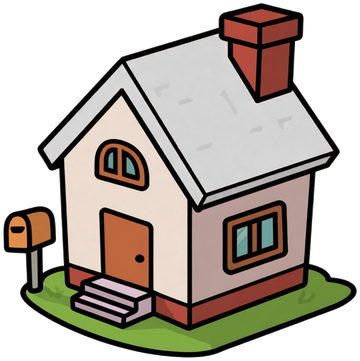
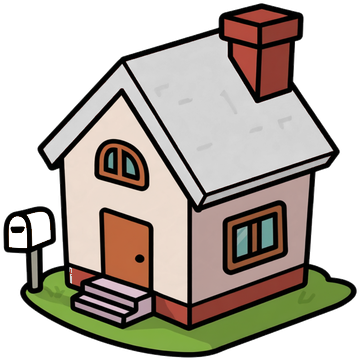
광장: 우편함도 지붕 색 따라 · 박스 크기를 화면 크기에 맞춰 (낮은 화면에서 위로 높이 쌓여 동상 · 게시판을 덮던 것) · 휴대폰 가로 화면은 원을 아래로 (제목 줄과 안 겹치게)
Claude-Session: https://claude.ai/code/session_01FJjmZS4UAcAfVvvFLL5GtA

Changed region(s): [[0.0, 0.5789, 0.1528, 0.7008], [0.1833, 0.7313, 0.2139, 0.7922]]

diff --git a/src/pages/Plaza.tsx b/src/pages/Plaza.tsx
@@ -112,7 +112,7 @@ const RY0 = 50;
 const RX = 41;
 const RY = 37;
 /** 세로로 긴 화면(휴대폰): 원은 위쪽에 (물류센터는 원 밖 맨 아래) */
-const geo = (tall: boolean) => (tall ? { x0: RX0, y0: 45, rx: 35, ry: 32 } : { x0: RX0, y0: RY0, rx: RX, ry: RY });
+const geo = (tall: boolean, short = false) => (tall ? { x0: RX0, y0: 45, rx: 35, ry: 32 } : short ? { x0: RX0, y0: 55, rx: RX, ry: 32 } : { x0: RX0, y0: RY0, rx: RX, ry: RY });
 
 /** 고정된 난수 (새로 그려도 덤불 자리가 그대로) */
 function rng(seed: number) {
@@ -124,8 +124,8 @@ function rng(seed: number) {
 }
 
 /** 바닥: 잔디 · 가운데 흙 광장 · 물류센터 마당 · 덤불 · 꽃 · 돌 조금 (길은 아직 안 그림) */
-function Ground({ w, h, tall }: { w: number; h: number; tall: boolean }) {
-  const g = geo(tall);
+function Ground({ w, h, tall, short }: { w: number; h: number; tall: boolean; short: boolean }) {
+  const g = geo(tall, short);
   const cx = (w * g.x0) / 100;
   const cy = (h * g.y0) / 100;
   const rx = (w * g.rx) / 100;
@@ -344,7 +344,8 @@ export default function Plaza() {
   }, []);
   // 세로로 긴 화면(휴대폰)은 양옆 집이 잘리지 않게 원을 조금 좁게
   const tall = !!fieldSize && fieldSize.w / fieldSize.h < 0.8;
-  const g = geo(tall);
+  const short = !!fieldSize && !tall && fieldSize.h < 560; // 낮은 화면 (휴대폰 가로): 원을 조금 아래로 · 납작하게
+  const g = geo(tall, short);
   // 집 자리 = 타원 둘레를 같은 길이로 나눔 (각도로 나누면 길쭉한 화면에서 위 · 아래 집이 겹침)
   //   12시부터 시계 방향 · 6시 쪽은 물류센터 몫으로 비움 (넓은 화면은 물류센터가 커서 더 넓게)
   const angles = useMemo(() => {
@@ -371,7 +372,7 @@ export default function Plaza() {
       return -90 + d + f;
     });
     // eslint-disable-next-line react-hooks/exhaustive-deps
-  }, [fieldSize, ring.length, tall]);
+  }, [fieldSize, ring.length, tall, short]);
   const posOf = (deg: number): CSSProperties => {
     const r = (deg * Math.PI) / 180;
     return { left: `${g.x0 + g.rx * Math.cos(r)}%`, top: `${g.y0 + g.ry * Math.sin(r)}%` };
@@ -415,6 +416,13 @@ export default function Plaza() {
     // eslint-disable-next-line react-hooks/exhaustive-deps
   }, [t1.data.orders, t2.data.orders, t3.data.orders, t1.data.companies, t2.data.companies, t3.data.companies, todayIso]);
   const maxKrw = Math.max(1, ...boxes.map((b) => b.krw));
+  // 박스 크기: 화면이 작으면 같이 작게 (낮고 넓은 화면에서 위로 높이 쌓여 동상 · 게시판을 덮지 않게)
+  const boxK = (() => {
+    if (!fieldSize) return 1;
+    if (fieldSize.w / fieldSize.h < 0.8) return 0.42; // 세로 휴대폰
+    const k = Math.min(fieldSize.w / 1440, fieldSize.h / 900);
+    return Math.max(0.35, Math.min(1, k)).toFixed(3);
+  })();
   const boxSize = (krw: number) => Math.round(34 + 52 * Math.sqrt(krw / maxKrw));
   const [truckOpen, setTruckOpen] = useState(false);
   const [pickBox, setPickBox] = useState<(typeof boxes)[number] | null>(null);
@@ -497,8 +505,8 @@ export default function Plaza() {
         )}
       </div>
 
-      <div className="pz-field" ref={fieldRef} onClick={() => setPickBox(null)}>
-        {fieldSize && <Ground w={fieldSize.w} h={fieldSize.h} tall={tall} />}
+      <div className="pz-field" ref={fieldRef} style={{ '--box-k': boxK } as CSSProperties} onClick={() => setPickBox(null)}>
+        {fieldSize && <Ground w={fieldSize.w} h={fieldSize.h} tall={tall} short={short} />}
         {/* 가운데: 게시판 */}
         {/* 게시판 뒤: 동상 */}
         <img className="pz-statue" src="./plaza/statue.png" alt="" draggable={false} />
@@ -760,6 +768,7 @@ function House({ m, light, mine, unread, onMail, big, flip, sayBelow, roof }: { 
       <div className={`pz-art ${light.msg ? 'can-say' : ''}`} onClick={(e) => !(e.target as HTMLElement).closest('.pz-mailbox') && light.msg && setSay((v) => !v)}>
         <img className="pz-art-base" src="./plaza/house.png" alt="" draggable={false} />
         <span className="pz-art-roof" style={maskOf('house-roof')} />
+        <span className="pz-art-roof" style={maskOf('house-mailbox')} />
         <span className="pz-art-glass" style={maskOf('house-glass')} />
         {roof && <RoofLights {...roof} />}
         {light.on && <img className="pz-art-char" src={characterSrc(charOf(m))} alt="" draggable={false} />}

diff --git a/src/styles.css b/src/styles.css
@@ -9732,7 +9732,6 @@ html.pz-open .mcal-btn, html.pz-open .mcal-pop { display: none; }
   .pz-truck-n { font-size: 10px; padding: 1px 5px; }
   .pz-wh-count { font-size: 10.5px; padding: 1px 8px; }
   .pz-wh-empty { font-size: 11px; padding: 4px 8px; }
-  .pz { --box-k: 0.42; }
   .pz-box { margin-top: -5px; }
   .pz-truck-pop { left: auto; right: 0; transform: none; width: min(300px, 86vw); }
   .pz-board-face { width: 34vw; padding: 8px; }
@@ -9857,3 +9856,5 @@ html.pz-open .mcal-btn, html.pz-open .mcal-pop { display: none; }
 .pz-snowy .pz-snow-cover { opacity: 0.95; }
 .pz-snowy .pz-ground, .pz-snowy.pz-cloudy .pz-ground { filter: brightness(calc(1.04 - var(--dark) * 0.45)) saturate(calc(0.95 - var(--dark) * 0.3)) hue-rotate(calc(var(--dark) * 12deg)); }
 .pz-snowy:not(.pz-night) .pz-title, .pz-snowy:not(.pz-night) .pz-hint { color: #2e3a4a; text-shadow: 0 1px 0 rgba(255, 255, 255, 0.8); }
+
+@media (max-height: 560px) and (min-aspect-ratio: 4/5) { .pz-hint { display: none; } .pz-field > .pz-board, .pz-field > .pz-statue { top: 55%; } }
